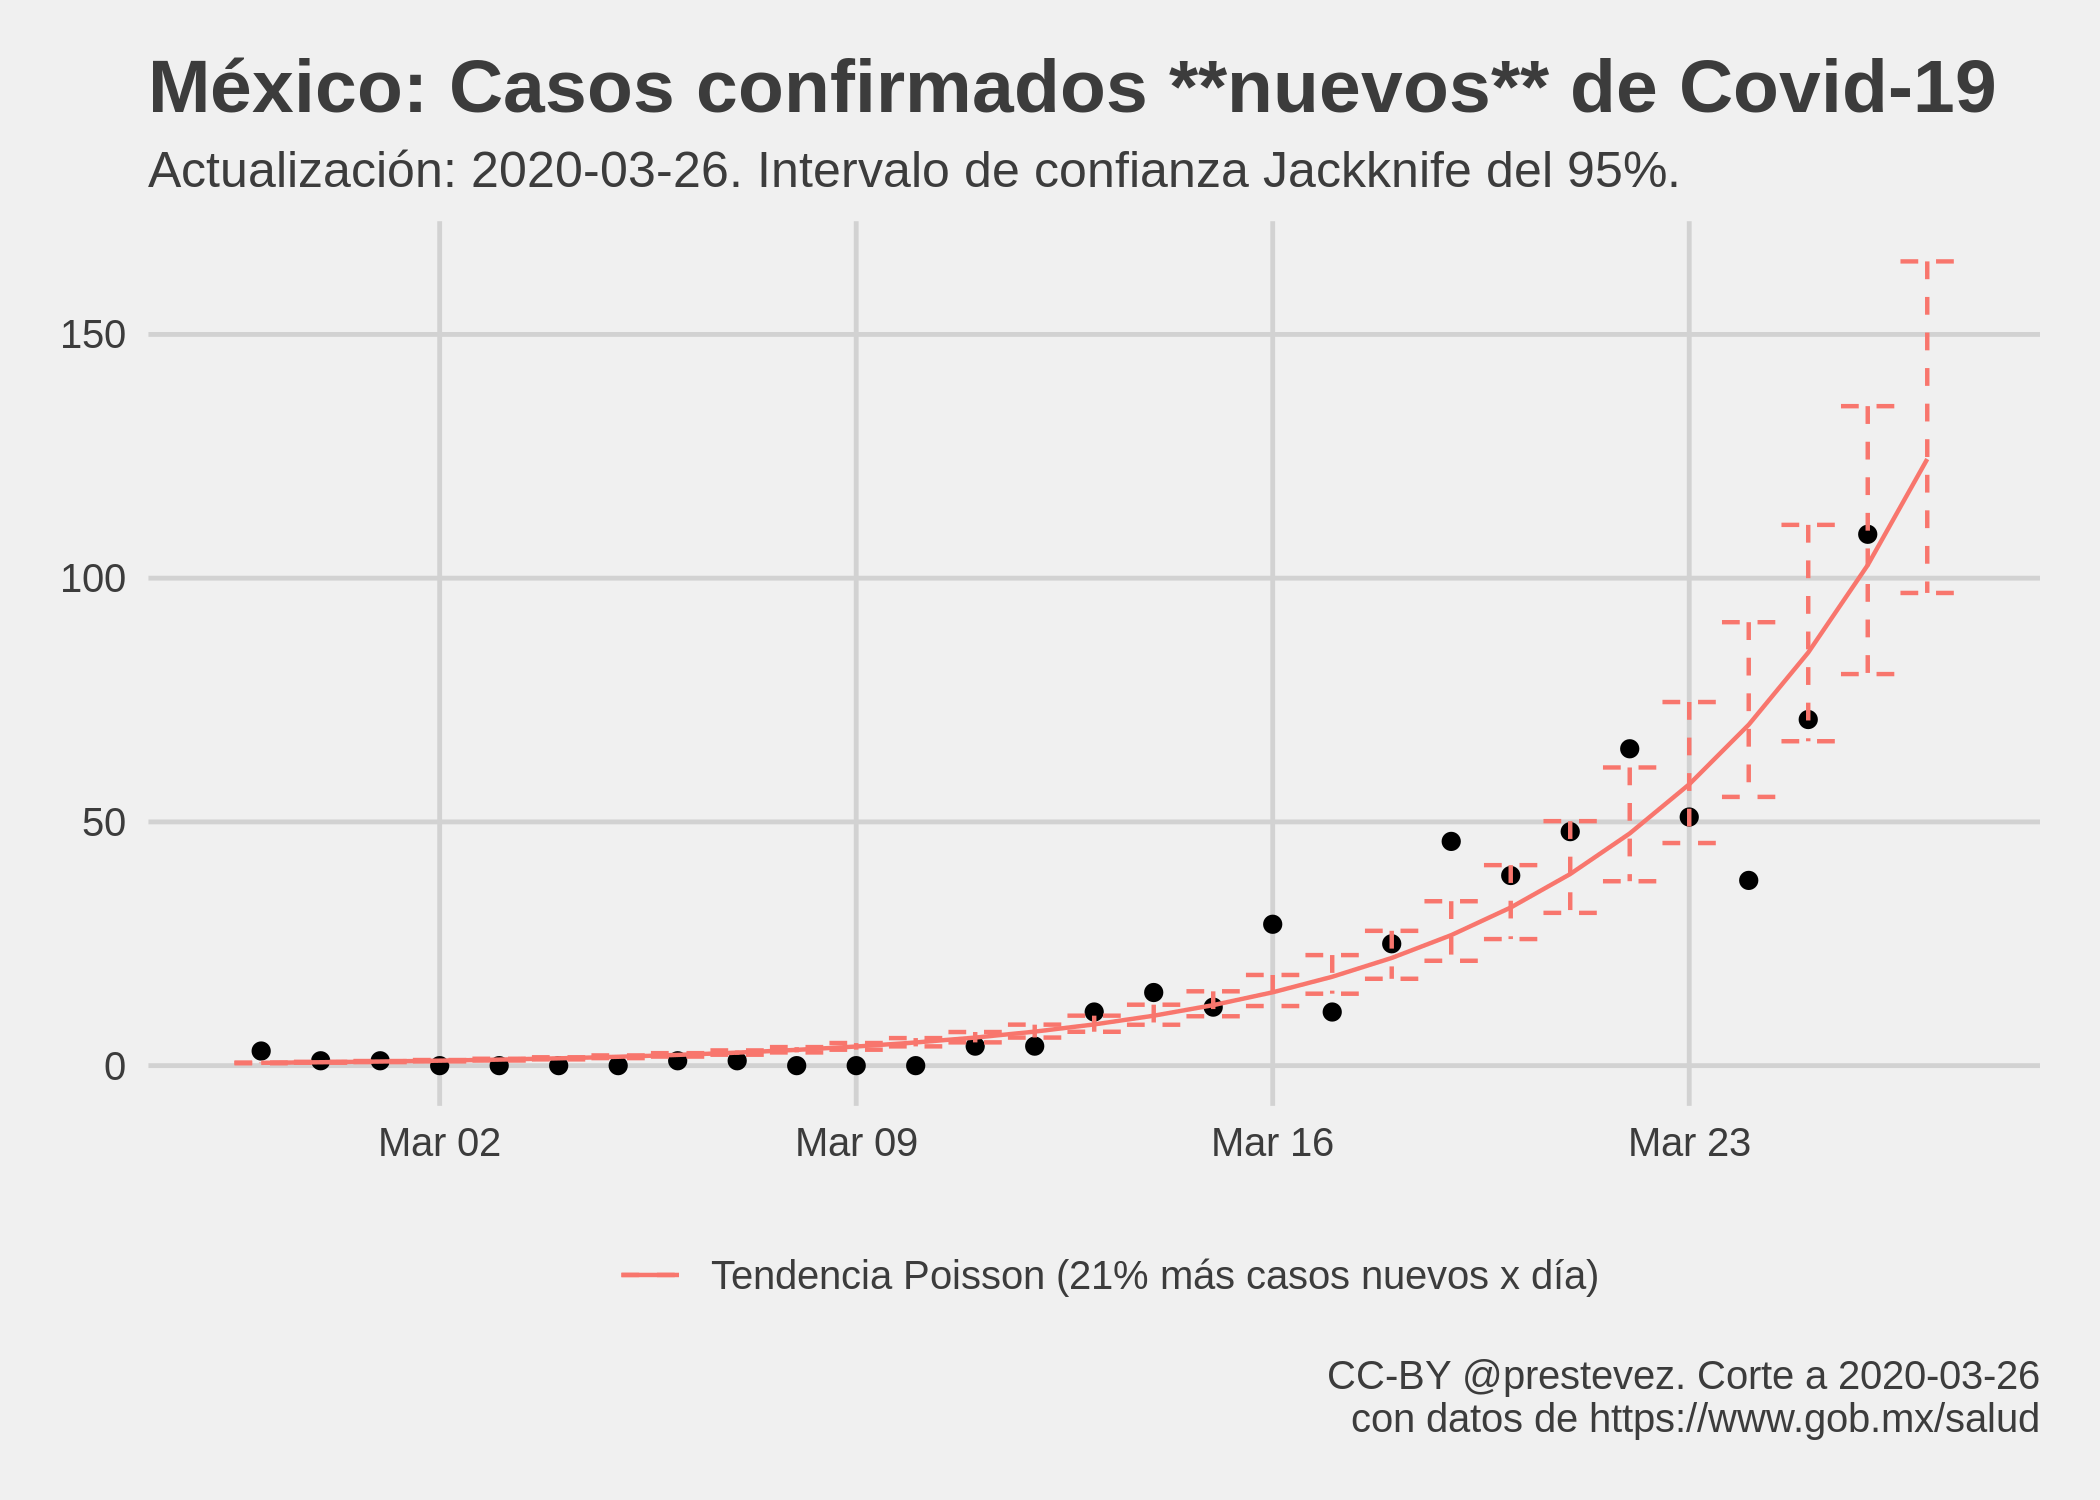
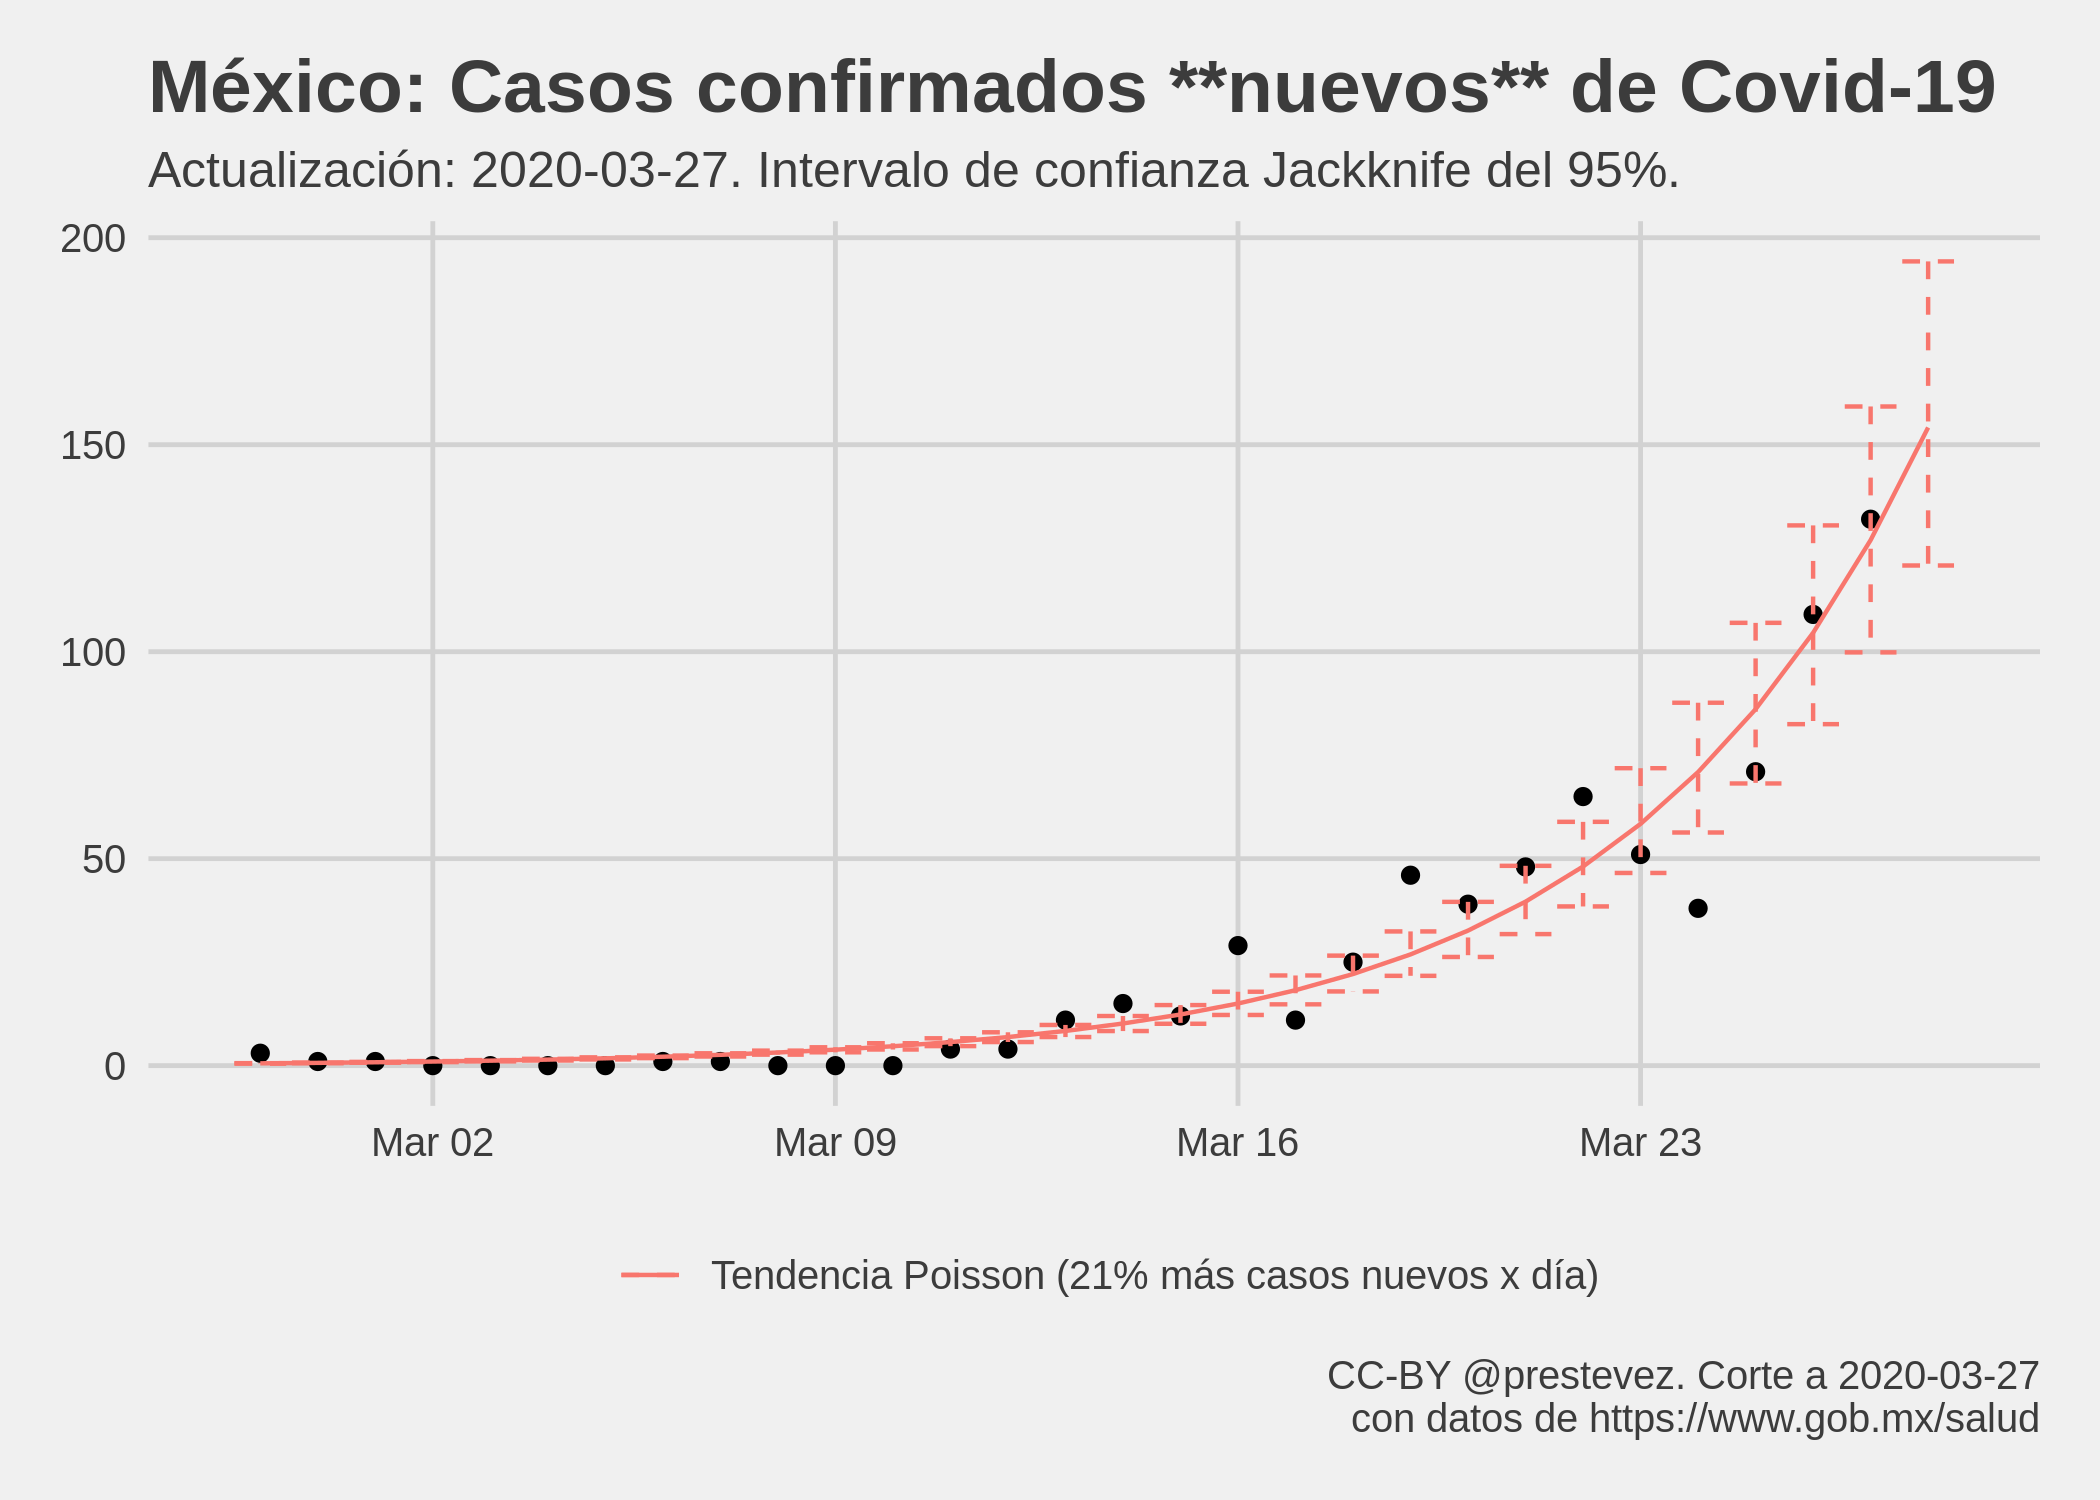
update 2020-03-27

diff --git a/README.md b/README.md
@@ -1,7 +1,7 @@
 Evolución de Covid-19 en México
 ================
 [Patricio R Estevez-Soto](https://twitter.com/prestevez).
-Actualizado: 2020-03-27 09:18:37 GMT
+Actualizado: 2020-03-28 01:05:19 GMT
 
 # Crecimiento de casos confirmados de Covid-19 en México
 
@@ -38,20 +38,20 @@ Parámetros del modelo predictivo:
     ## 
     ## Deviance Residuals: 
     ##     Min       1Q   Median       3Q      Max  
-    ## -24.829  -17.005   -5.843   -0.122   38.982  
+    ## -25.499  -15.753   -6.511   -0.329   39.236  
     ## 
     ## Coefficients:
     ##             Estimate Std. Error t value Pr(>|t|)    
-    ## (Intercept) 0.969300   0.161405   6.005 2.43e-06 ***
-    ## t           0.193949   0.006204  31.262  < 2e-16 ***
+    ## (Intercept) 1.010605   0.135682   7.448 5.18e-08 ***
+    ## t           0.192190   0.005027  38.232  < 2e-16 ***
     ## ---
     ## Signif. codes:  0 '***' 0.001 '**' 0.01 '*' 0.05 '.' 0.1 ' ' 1
     ## 
-    ## (Dispersion parameter for gaussian family taken to be 283.874)
+    ## (Dispersion parameter for gaussian family taken to be 276.6228)
     ## 
-    ##     Null deviance: 751311.4  on 27  degrees of freedom
-    ## Residual deviance:   7380.5  on 26  degrees of freedom
-    ## AIC: 241.54
+    ##     Null deviance: 1099063.2  on 28  degrees of freedom
+    ## Residual deviance:    7468.8  on 27  degrees of freedom
+    ## AIC: 249.28
     ## 
     ## Number of Fisher Scoring iterations: 6
 
@@ -88,8 +88,8 @@ Parámetros Jackknife del modelo predictivo de casos:
     ## # A tibble: 2 x 4
     ##   var         Estimate ci_low ci_high
     ##   <chr>          <dbl>  <dbl>   <dbl>
-    ## 1 (Intercept)    0.966  0.873   1.01 
-    ## 2 t              0.194  0.192   0.198
+    ## 1 (Intercept)    1.01   0.944   1.04 
+    ## 2 t              0.192  0.191   0.194
 
 # Modelo de casos nuevos
 
@@ -122,39 +122,39 @@ Parámetros del modelo predictivo de casos nuevos:
     ## 
     ## Deviance Residuals: 
     ##     Min       1Q   Median       3Q      Max  
-    ## -4.1852  -1.6142  -0.8396   0.9050   3.3675  
+    ## -4.2914  -1.6798  -0.7475   0.8616   3.3470  
     ## 
     ## Coefficients:
     ##              Estimate Std. Error z value Pr(>|z|)    
-    ## (Intercept) -0.745500   0.204391  -3.647 0.000265 ***
-    ## t            0.192044   0.008552  22.457  < 2e-16 ***
+    ## (Intercept) -0.785224   0.192256  -4.084 4.42e-05 ***
+    ## t            0.194106   0.007718  25.151  < 2e-16 ***
     ## ---
     ## Signif. codes:  0 '***' 0.001 '**' 0.01 '*' 0.05 '.' 0.1 ' ' 1
     ## 
     ## (Dispersion parameter for poisson family taken to be 1)
     ## 
-    ##     Null deviance: 933.12  on 27  degrees of freedom
-    ## Residual deviance: 102.15  on 26  degrees of freedom
-    ## AIC: 198.13
+    ##     Null deviance: 1178.32  on 28  degrees of freedom
+    ## Residual deviance:  102.44  on 27  degrees of freedom
+    ## AIC: 205.15
     ## 
     ## Number of Fisher Scoring iterations: 5
 
     ## # A tibble: 2 x 4
     ##   var         Estimate ci_low ci_high
     ##   <chr>          <dbl>  <dbl>   <dbl>
-    ## 1 (Intercept)   -0.747 -0.884  -0.649
-    ## 2 t              0.192  0.188   0.198
+    ## 1 (Intercept)   -0.786 -0.930  -0.699
+    ## 2 t              0.194  0.191   0.199
 
 # Casos esperados mañana
 
 Mañana se espera que el **total acumulado de casos confirmados** de
-Covid-19 alcance **731**, con un intervalo de confianza Jackknife del
-95% entre **636** y **846**, si la tendencia observada hasta hoy se
+Covid-19 alcance **877**, con un intervalo de confianza Jackknife del
+95% entre **792** y **968**, si la tendencia observada hasta hoy se
 mantiene igual.
 
-Según el modelo de casos nuevos, mañana se esperan **124 casos
+Según el modelo de casos nuevos, mañana se esperan **154 casos
 confirmados nuevos**, con un intervalo de confianza Jackknife del 95%
-entre **97** y **165**, si la tendencia observada hasta hoy se mantiene
+entre **121** y **194**, si la tendencia observada hasta hoy se mantiene
 igual.
 
 Sin embargo, estas cifra muy probablemente estén equivocadas, pues el
@@ -184,6 +184,7 @@ Para el modelo del acumulado de casos:
 | 2020-03-24 |                      405 |     487.84 | \-82.84 |
 | 2020-03-25 |                      476 |     545.18 | \-69.18 |
 | 2020-03-26 |                      585 |     620.12 | \-35.12 |
+| 2020-03-27 |                      717 |     730.57 | \-13.57 |
 
 Intervalos de confianza JK
 
@@ -192,6 +193,7 @@ Intervalos de confianza JK
 | 2020-03-24 |           405            |    388-633     |       No       |
 | 2020-03-25 |           476            |    423-732     |       No       |
 | 2020-03-26 |           585            |    511-768     |       No       |
+| 2020-03-27 |           717            |    636-846     |       No       |
 
 Para el modelo de casos nuevos:
 
@@ -202,6 +204,7 @@ Para el modelo de casos nuevos:
 | 2020-03-24 |                      38 |      91.69 | \-53.69 |
 | 2020-03-25 |                      71 |      88.21 | \-17.21 |
 | 2020-03-26 |                     109 |      99.55 |    9.45 |
+| 2020-03-27 |                     132 |     124.43 |    7.57 |
 
 Intervalos de confianza JK, casos nuevos.
 
@@ -210,6 +213,7 @@ Intervalos de confianza JK, casos nuevos.
 | 2020-03-24 |           38            |     61-149     |       Sí       |
 | 2020-03-25 |           71            |     58-144     |       No       |
 | 2020-03-26 |           109           |     74-142     |       No       |
+| 2020-03-27 |           132           |     97-165     |       No       |
 
 # Discusión
 
@@ -218,7 +222,7 @@ confirmados de Covid-19 es consistente con ejercicios [realizados en
 otros países](https://doi.org/10.1016/S0140-6736\(20\)30627-9).
 
 La tendencia exponencial del modelo sugiere que **el número de casos
-confirmados se duplica cada 3.57 días**. Este ritmo es más rápido que
+confirmados se duplica cada 3.61 días**. Este ritmo es más rápido que
 [el observado a nivel
 global](https://ourworldindata.org/coronavirus#growth-of-cases-how-long-did-it-take-for-the-number-of-confirmed-cases-to-double),
 pero es consistente con los ritmos de crecimiento observados durante las
